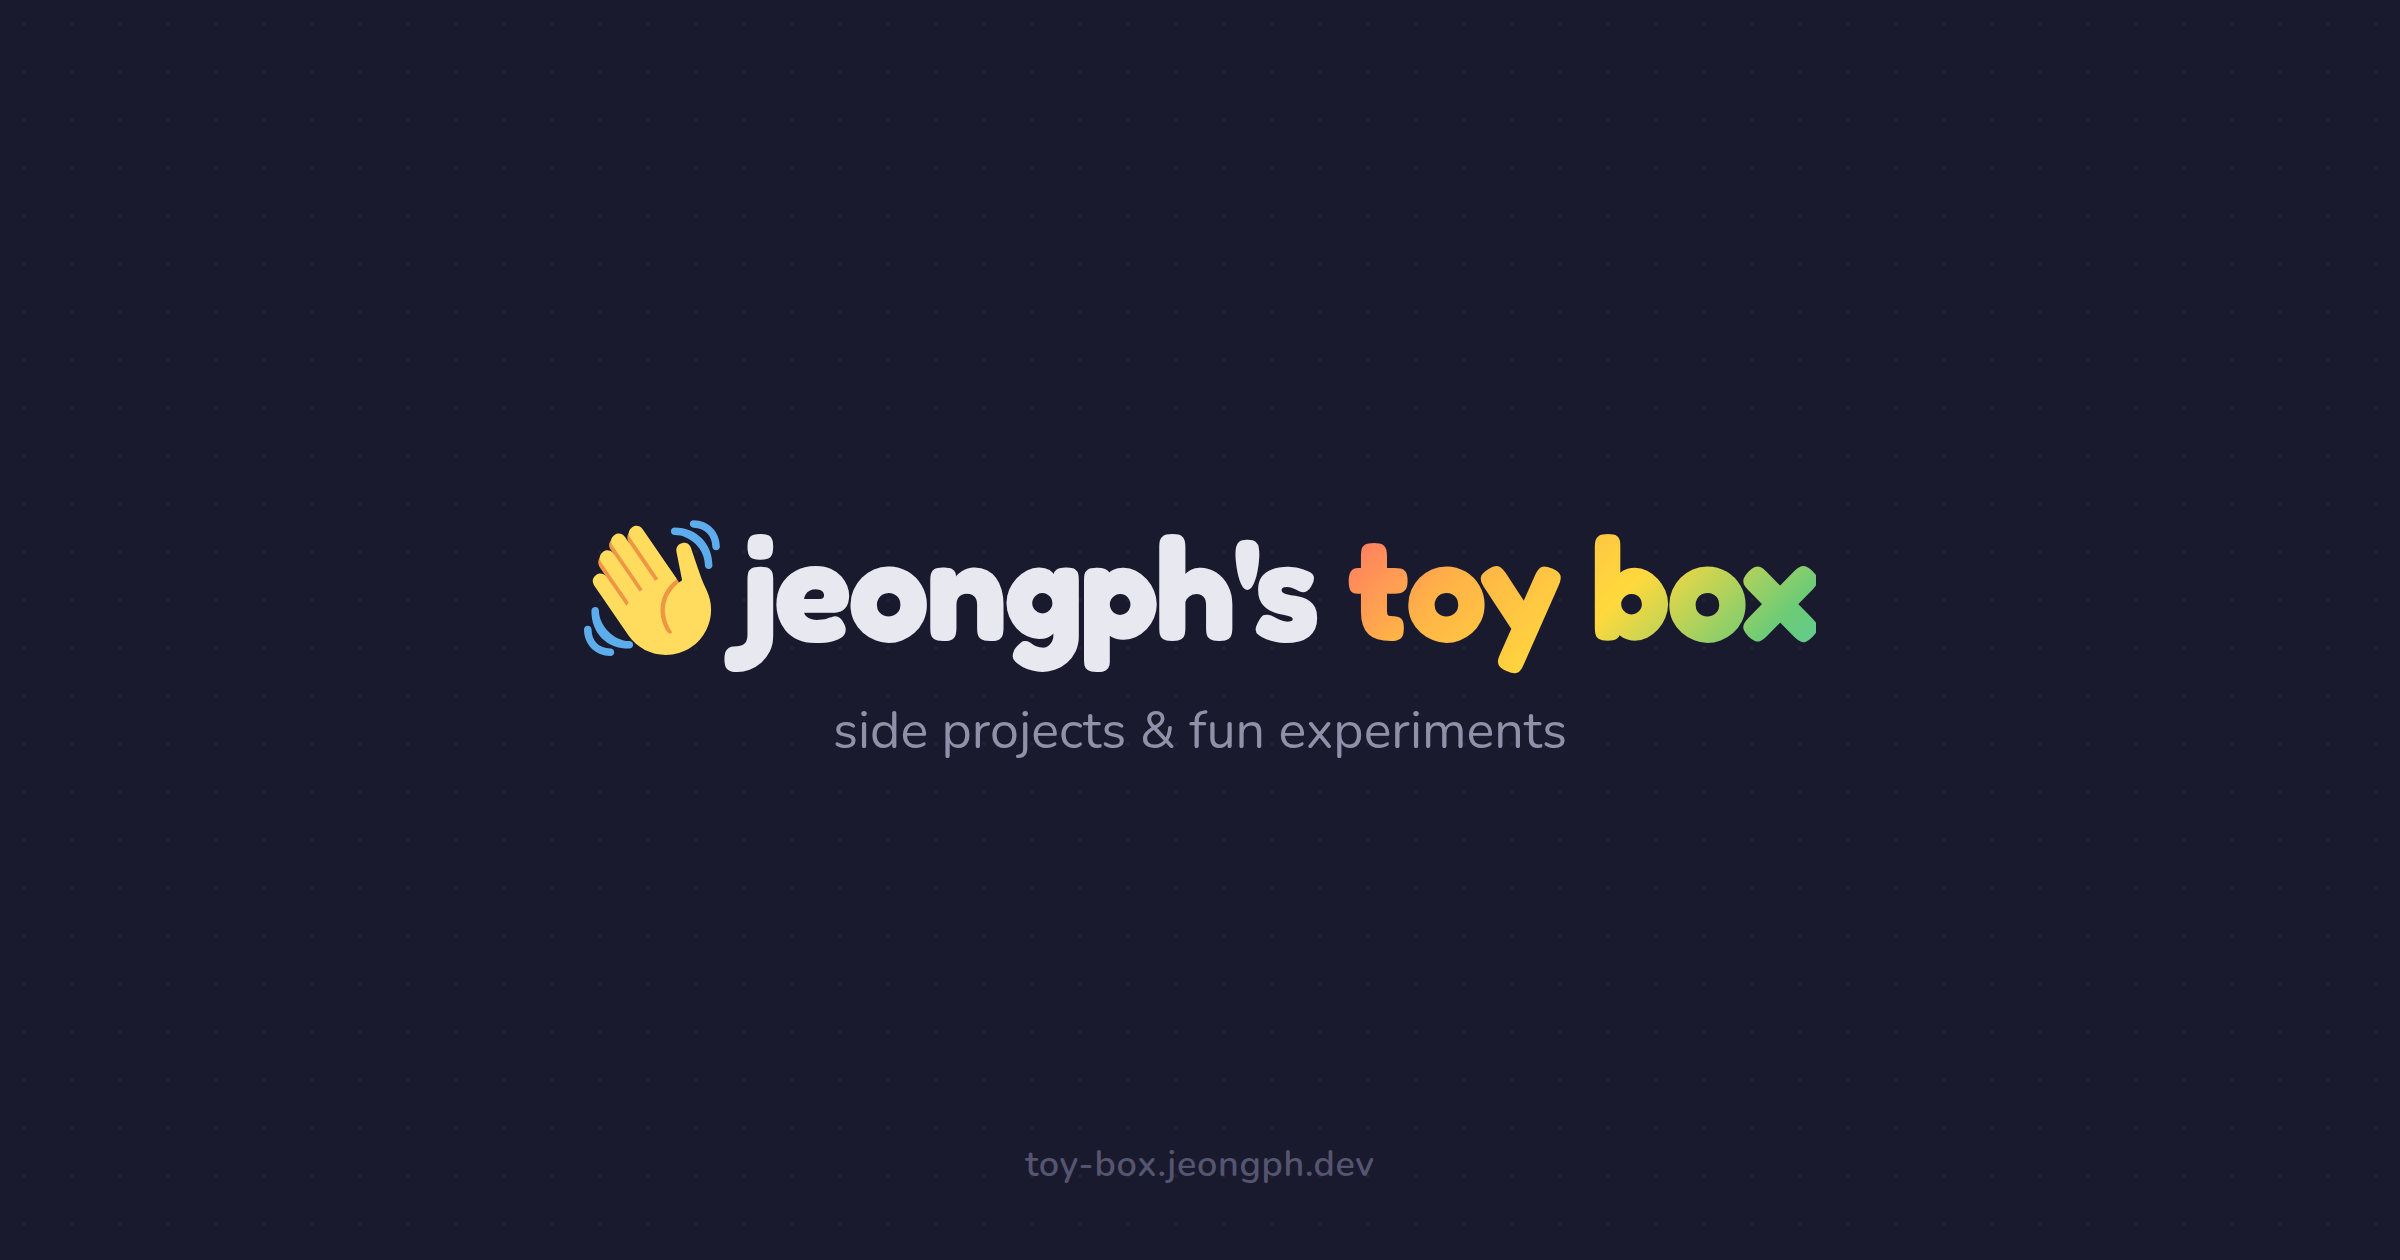
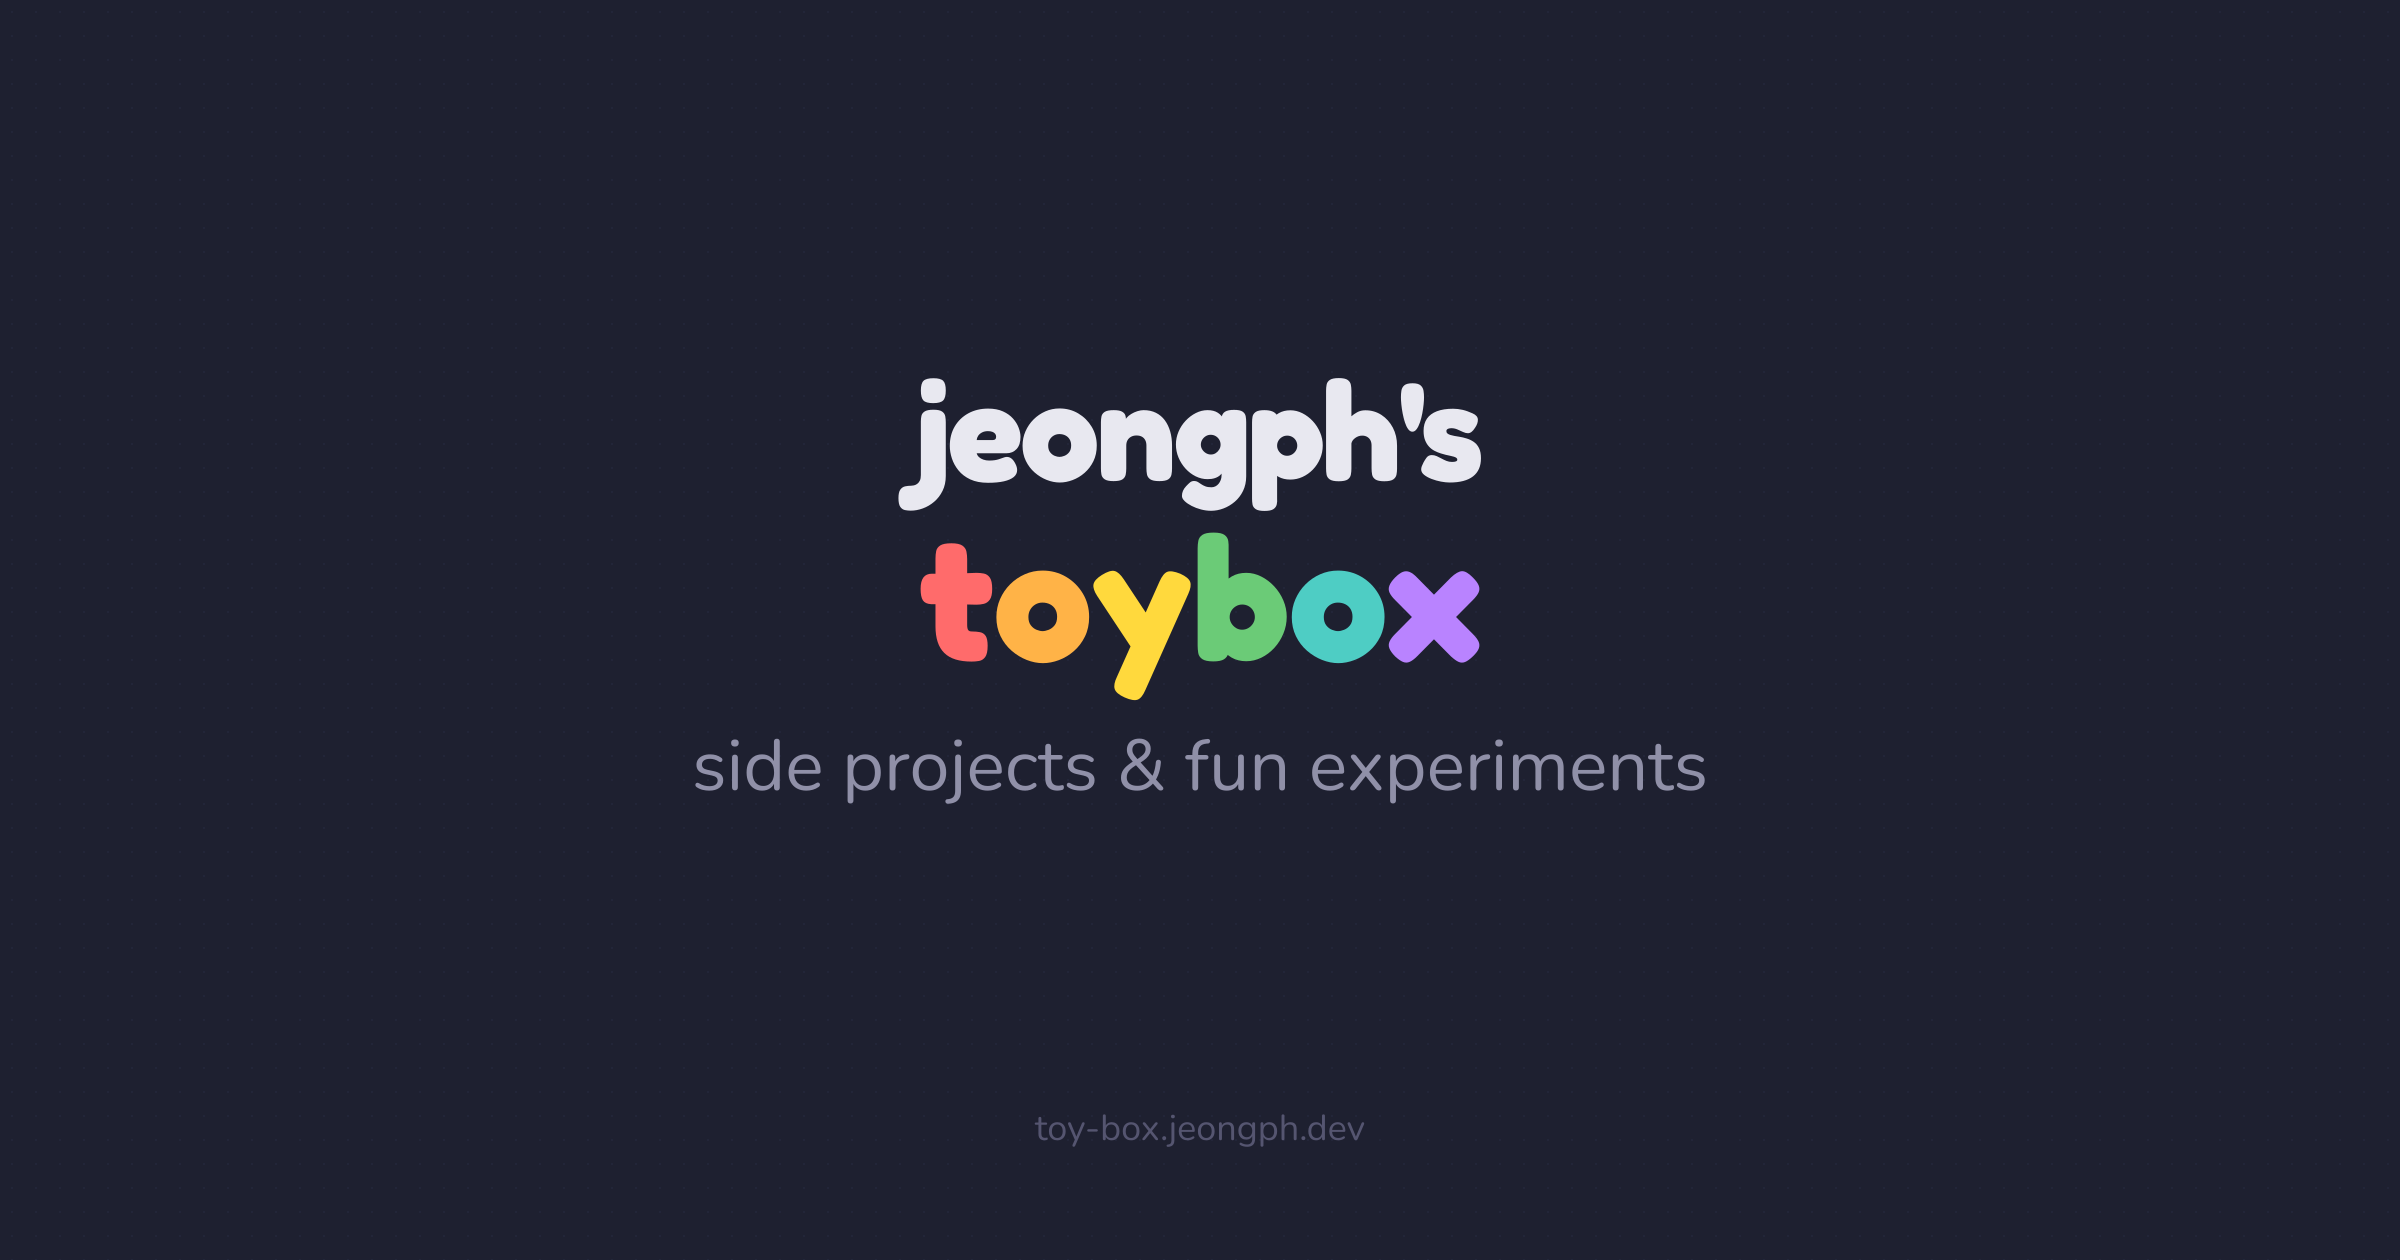
feat: OG 이미지 리디자인 및 카드 이미지 비율 조정
- OG 이미지 텍스트를 2배 이상 확대하여 카드 썸네일에서 시인성 향상
- Fredoka 폰트 적용, 원본 디자인과 동일한 컬러 구성 유지
- 카드 이미지 비율을 16:9에서 8:5로 조정

Changed region(s): [[0.25, 0.3095, 0.7812, 0.65], [0.4375, 0.8667, 0.5625, 0.9595]]

diff --git a/styles.css b/styles.css
@@ -444,7 +444,7 @@ footer a:hover {
 
 /* Card OG Image */
 .card-og-image {
-  aspect-ratio: 16 / 9;
+  aspect-ratio: 8 / 5;
   object-fit: cover;
   border-radius: 18px 18px 0 0;
   width: calc(100% + 2.5rem);
